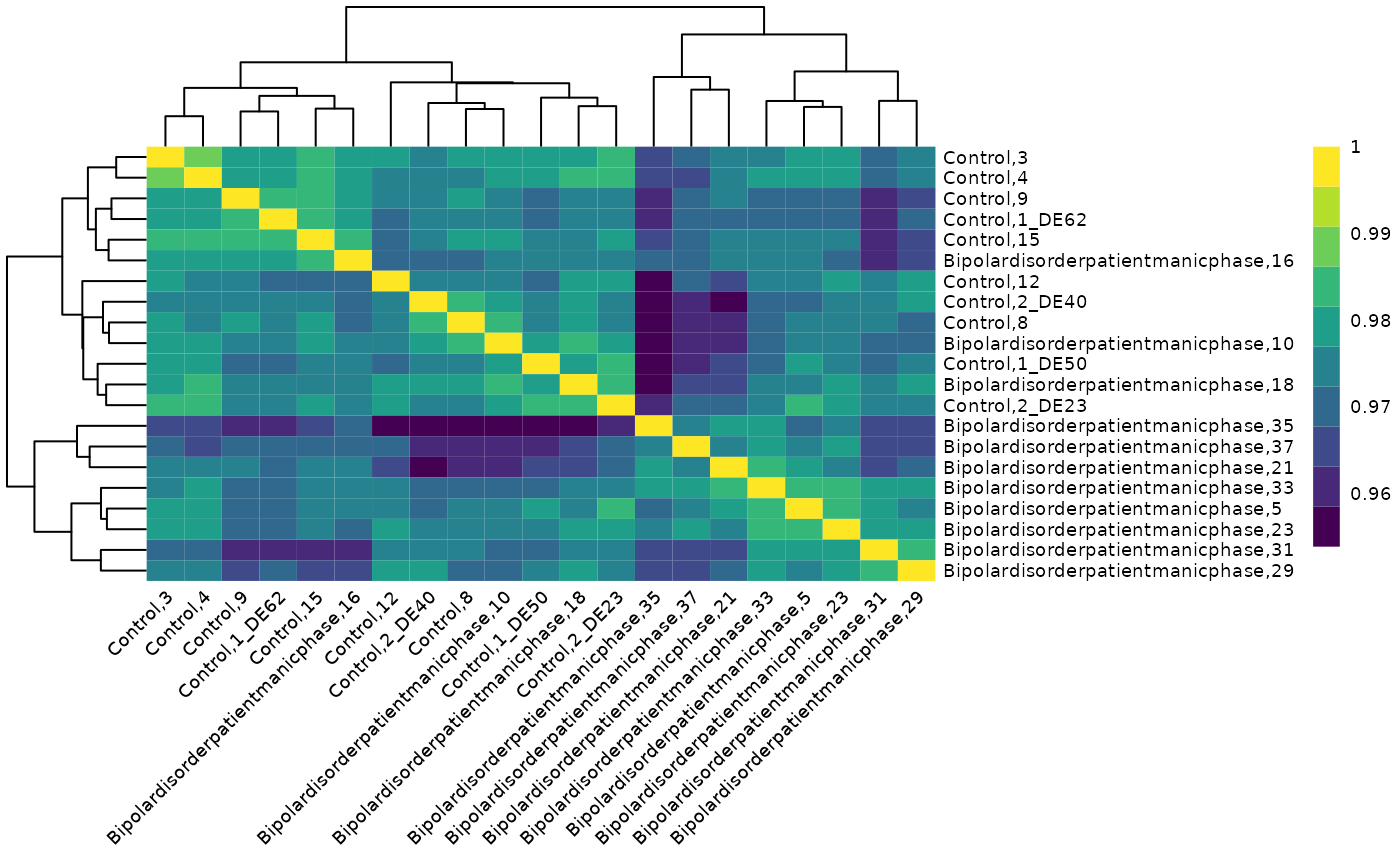
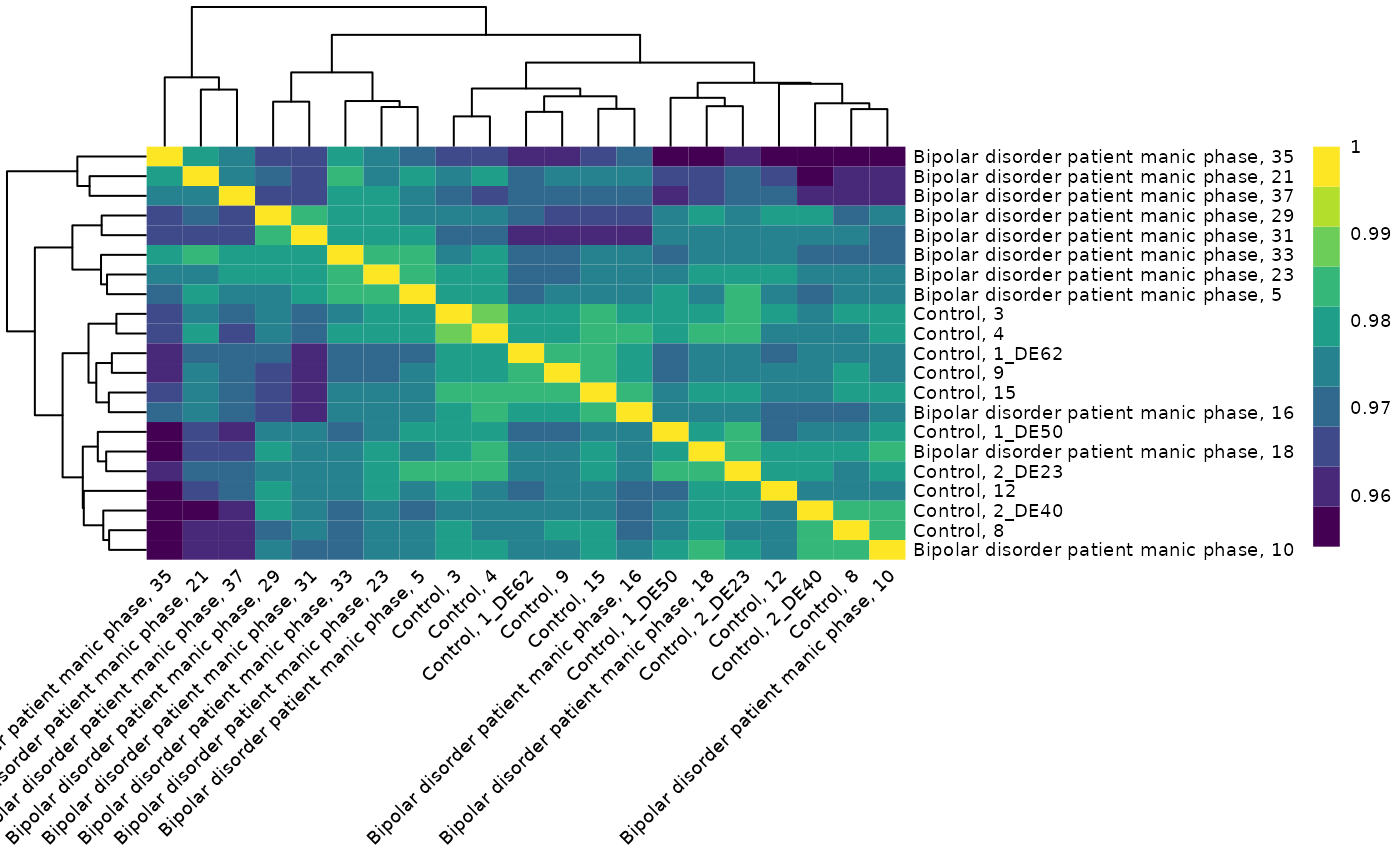
Deploying to gh-pages from @ PavlidisLab/gemma.R@d112d3d7e6691d3b97c7ad871d2ed539e8ec4ad2 🚀

diff --git a/articles/gemma.R.html b/articles/gemma.R.html
@@ -369,10 +369,10 @@ using <a href="https://pavlidislab.github.io/gemma.R/reference/get_datasets_by_i
 1: Gene expression profiles of bipolar disorder (BD) patients were assessed during both a manic and a euthymic phase and compared both intra-individually, and with the gene expression profiles of controls.\nLast Updated (by provider): Sep 05 2014\nContributors:  Christian C Witt Benedikt Brors Dilafruz Juraeva Jens Treutlein Carsten Sticht Stephanie H Witt Jana Strohmaier Helene Dukal Josef Frank Franziska Degenhardt Markus M Nöthen Sven Cichon Maren Lang Marcella Rietschel Sandra Meier Manuel Mattheisen</code></pre>
 <p>To access the expression data in a convenient form, you can use <a href="https://pavlidislab.github.io/gemma.R/reference/get_dataset_object.html" class="external-link"><code>get_dataset_object</code></a>.
 It is a high-level wrapper that combines various endpoint calls to
-return an annotated <a href="https://bioconductor.org/packages/release/bioc/vignettes/SummarizedExperiment/inst/doc/SummarizedExperiment.html" class="external-link"><code>SummarizedExperiment</code></a>
+return lists of annotated <a href="https://bioconductor.org/packages/release/bioc/vignettes/SummarizedExperiment/inst/doc/SummarizedExperiment.html" class="external-link"><code>SummarizedExperiment</code></a>
 or <a href="https://bioconductor.org/packages/release/bioc/vignettes/Biobase/inst/doc/ExpressionSetIntroduction.pdf" class="external-link"><code>ExpressionSet</code></a>
-that is compatible with other Bioconductor packages or a <a href="https://cran.r-project.org/web/packages/tidyr/vignettes/tidy-data.html" class="external-link">tidyverse-friendly</a>
-long form tibble for downstream analyses. They include the expression
+objects that are compatible with other Bioconductor packages or a <a href="https://cran.r-project.org/web/packages/tidyr/vignettes/tidy-data.html" class="external-link">tidyverse-friendly</a>
+long form tibble for downstream analyses. These include the expression
 matrix along with the experimental design, and ensure the sample names
 match between both when transforming/subsetting data.</p>
 <div class="sourceCode" id="cb19"><pre class="downlit sourceCode r">
@@ -386,24 +386,23 @@ the <code>reference_subject_role</code>s, which refers to the control
 samples in Gemma datasets.</p>
 <div class="sourceCode" id="cb20"><pre class="downlit sourceCode r">
 <code class="sourceCode R"><span><span class="co"># Check the levels of the disease factor</span></span>
-<span><span class="va">dat</span><span class="op">$</span><span class="va">disease</span> <span class="op"><a href="https://magrittr.tidyverse.org/reference/pipe.html" class="external-link">%&gt;%</a></span> <span class="fu"><a href="https://rdrr.io/r/base/unique.html" class="external-link">unique</a></span><span class="op">(</span><span class="op">)</span></span></code></pre></div>
-<pre><code>[1] "reference_subject_role"              "euthymic_phase_|_Bipolar_Disorder_|"
-[3] "bipolar_disorder_|_manic_phase_|"   </code></pre>
+<span><span class="va">dat</span><span class="op">$</span><span class="va">GSE46416</span><span class="op">$</span><span class="va">disease</span> <span class="op"><a href="https://magrittr.tidyverse.org/reference/pipe.html" class="external-link">%&gt;%</a></span> <span class="fu"><a href="https://rdrr.io/r/base/unique.html" class="external-link">unique</a></span><span class="op">(</span><span class="op">)</span></span></code></pre></div>
+<pre><code>[1] "euthymic phase,Bipolar Disorder" "reference subject role"         
+[3] "bipolar disorder,manic phase"   </code></pre>
 <div class="sourceCode" id="cb22"><pre class="downlit sourceCode r">
 <code class="sourceCode R"><span><span class="co"># Subset patients during manic phase and controls</span></span>
-<span><span class="va">manic</span> <span class="op">&lt;-</span> <span class="va">dat</span><span class="op">[</span>, <span class="va">dat</span><span class="op">$</span><span class="va">disease</span> <span class="op">==</span> <span class="st">"bipolar_disorder_|_manic_phase_|"</span> <span class="op">|</span> </span>
-<span>        <span class="va">dat</span><span class="op">$</span><span class="va">disease</span> <span class="op">==</span> <span class="st">"reference_subject_role"</span><span class="op">]</span></span>
+<span><span class="va">manic</span> <span class="op">&lt;-</span> <span class="va">dat</span><span class="op">$</span><span class="va">GSE46416</span><span class="op">[</span>, <span class="va">dat</span><span class="op">$</span><span class="va">GSE46416</span><span class="op">$</span><span class="va">disease</span> <span class="op">==</span> <span class="st">"bipolar disorder,manic phase"</span> <span class="op">|</span> </span>
+<span>        <span class="va">dat</span><span class="op">$</span><span class="va">GSE46416</span><span class="op">$</span><span class="va">disease</span> <span class="op">==</span> <span class="st">"reference subject role"</span><span class="op">]</span></span>
 <span><span class="va">manic</span></span></code></pre></div>
 <pre><code>class: SummarizedExperiment 
-dim: 21986 21 
+dim: 21410 21 
 metadata(8): title abstract ... GemmaSuitabilityScore taxon
 assays(1): counts
-rownames(21986): 2315430 2315554 ... 7385683 7385696
+rownames(21410): 2315430 2315554 ... 7385683 7385696
 rowData names(4): Probe GeneSymbol GeneName NCBIid
-colnames(21): Control,1_DE50 Control,12 ...
-  Bipolardisorderpatientmanicphase,16
-  Bipolardisorderpatientmanicphase,21
-colData names(2): batch disease</code></pre>
+colnames(21): Control, 15 Control, 8 ... Control, 2_DE40 Bipolar
+  disorder patient manic phase, 37
+colData names(3): factorValues block disease</code></pre>
 <p>Let’s take a look at sample to sample correlation in our subset.</p>
 <div class="sourceCode" id="cb24"><pre class="downlit sourceCode r">
 <code class="sourceCode R"><span><span class="co"># Get Expression matrix</span></span>

diff --git a/reference/get_dataset_object.html b/reference/get_dataset_object.html
@@ -119,15 +119,17 @@ used. Use <code><a href="forget_gemma_memoised.html">forget_gemma_memoised</a></
     <div id="ref-examples">
     <h2>Examples</h2>
     <div class="sourceCode"><pre class="sourceCode r"><code><span class="r-in"><span><span class="fu">get_dataset_object</span><span class="op">(</span><span class="st">"GSE2018"</span><span class="op">)</span></span></span>
+<span class="r-out co"><span class="r-pr">#&gt;</span> $GSE2018</span>
 <span class="r-out co"><span class="r-pr">#&gt;</span> class: SummarizedExperiment </span>
-<span class="r-out co"><span class="r-pr">#&gt;</span> dim: 22283 34 </span>
+<span class="r-out co"><span class="r-pr">#&gt;</span> dim: 21244 34 </span>
 <span class="r-out co"><span class="r-pr">#&gt;</span> metadata(8): title abstract ... GemmaSuitabilityScore taxon</span>
 <span class="r-out co"><span class="r-pr">#&gt;</span> assays(1): counts</span>
-<span class="r-out co"><span class="r-pr">#&gt;</span> rownames(22283): 1007_s_at 1053_at ... AFFX-r2-P1-cre-3_at</span>
+<span class="r-out co"><span class="r-pr">#&gt;</span> rownames(21244): 1007_s_at 1053_at ... AFFX-r2-P1-cre-3_at</span>
 <span class="r-out co"><span class="r-pr">#&gt;</span>   AFFX-r2-P1-cre-5_at</span>
 <span class="r-out co"><span class="r-pr">#&gt;</span> rowData names(4): Probe GeneSymbol GeneName NCBIid</span>
-<span class="r-out co"><span class="r-pr">#&gt;</span> colnames(34): BAL_47c_A0B1 BAL_47b_A0B1 ... BAL_15a_A0B1 BAL_37_A1B1</span>
-<span class="r-out co"><span class="r-pr">#&gt;</span> colData names(2): diseaseState batch</span>
+<span class="r-out co"><span class="r-pr">#&gt;</span> colnames(34): BAL_1_A0B0 BAL_27a_A0B0 ... BAL_25_A0B0 BAL_41_A1B0</span>
+<span class="r-out co"><span class="r-pr">#&gt;</span> colData names(3): factorValues block disease</span>
+<span class="r-out co"><span class="r-pr">#&gt;</span> </span>
 </code></pre></div>
     </div>
   </div>
